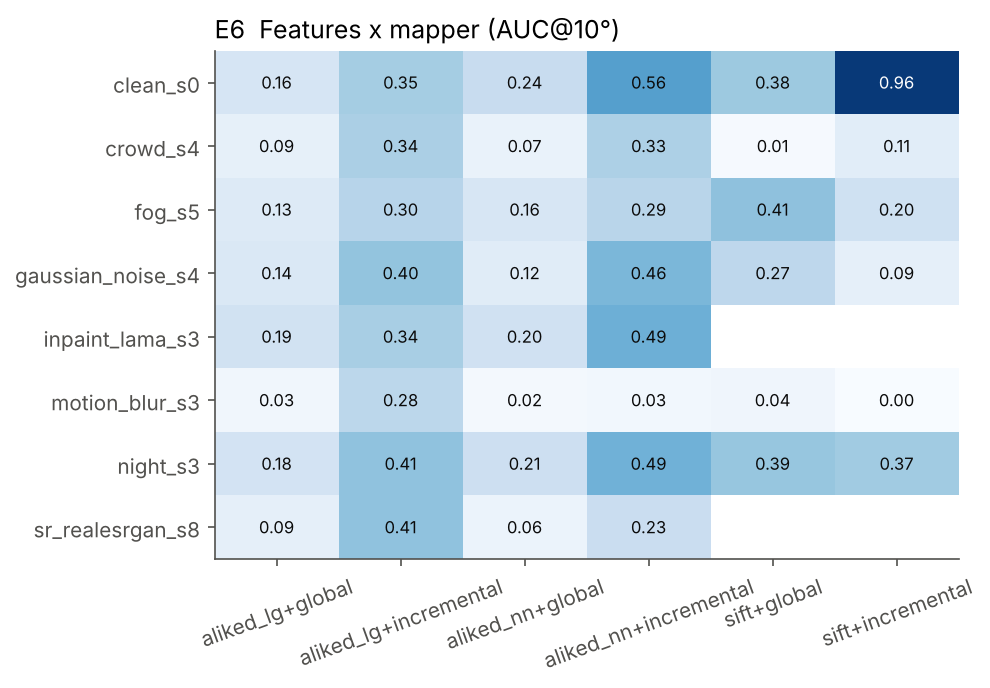
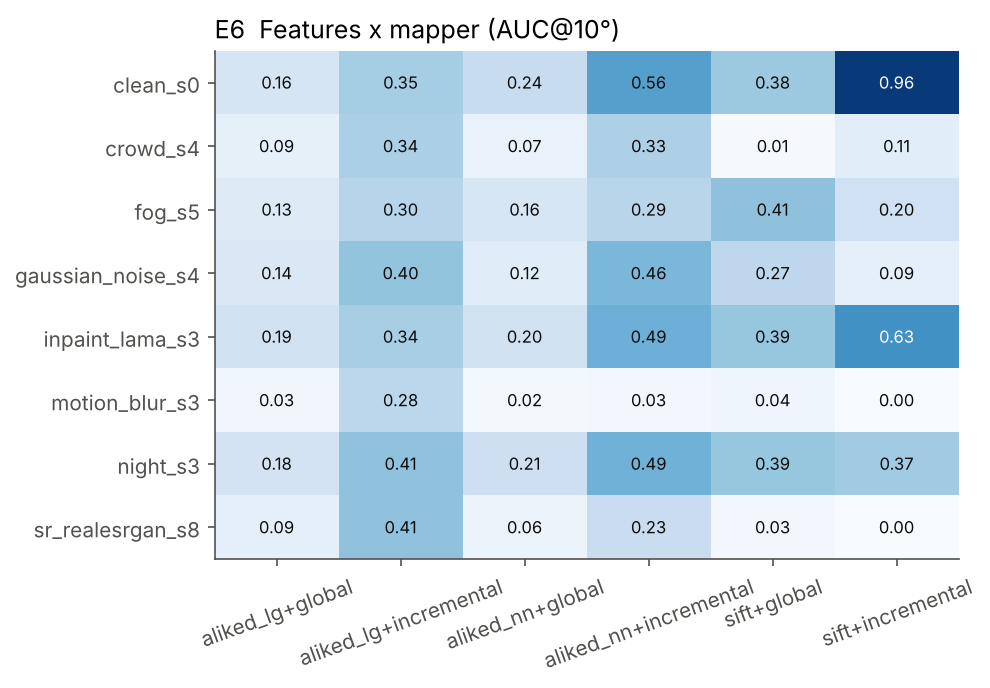
E6: fill SIFT LaMa/ESRGAN cells (3 seeds x 2 scenes)
Claude-Session: https://claude.ai/code/session_01DwFUuxyVwkhujN2CBgQS9g

Changed region(s): [[0.697, 0.4273, 0.9697, 0.5494], [0.8788, 0.7631, 0.9394, 0.7936], [0.7576, 0.7631, 0.7879, 0.7936]]

diff --git a/results/summary.md b/results/summary.md
@@ -169,10 +169,10 @@ Metric: pose AUC@10° over all input image pairs (unregistered = failure) and re
 | crowd_s4          |              0.086 |                   0.335 |              0.067 |                   0.328 |         0.01  |              0.109 |
 | fog_s5            |              0.128 |                   0.296 |              0.162 |                   0.291 |         0.414 |              0.201 |
 | gaussian_noise_s4 |              0.145 |                   0.399 |              0.116 |                   0.459 |         0.273 |              0.089 |
-| inpaint_lama_s3   |              0.189 |                   0.344 |              0.196 |                   0.493 |       nan     |            nan     |
+| inpaint_lama_s3   |              0.189 |                   0.344 |              0.196 |                   0.493 |         0.393 |              0.628 |
 | motion_blur_s3    |              0.035 |                   0.278 |              0.02  |                   0.029 |         0.041 |              0     |
 | night_s3          |              0.181 |                   0.406 |              0.212 |                   0.486 |         0.394 |              0.367 |
-| sr_realesrgan_s8  |              0.086 |                   0.407 |              0.061 |                   0.227 |       nan     |            nan     |
+| sr_realesrgan_s8  |              0.086 |                   0.407 |              0.061 |                   0.227 |         0.025 |              0     |
 
 
 ## E1  Real weather (Boreas)

diff --git a/REPORT.md b/REPORT.md
@@ -171,12 +171,13 @@ which isolates the learned matcher (LightGlue) from the learned features.
 | night s3 | 0.37 | 0.41 | **0.49** | 0.39 | 0.18 | 0.21 |
 | fog s5 | 0.20 | 0.30 | 0.29 | **0.41** | 0.13 | 0.16 |
 | crowds s4 | 0.11 | **0.34** | 0.33 | 0.01 | 0.09 | 0.07 |
-| LaMa inpaint s3 | SIFT_LAMA | 0.34 | **0.49** | SIFT_LAMA_G | 0.19 | 0.20 |
-| Real-ESRGAN SR ×8 | SIFT_SR | **0.41** | 0.23 | SIFT_SR_G | 0.09 | 0.06 |
+| LaMa inpaint s3 | **0.63** | 0.34 | 0.49 | 0.39 | 0.19 | 0.20 |
+| Real-ESRGAN SR ×8 | 0.00 | **0.41** | 0.23 | 0.03 | 0.09 | 0.06 |
 
 * **Learned features trade clean accuracy for robustness.** On clean photos SIFT is far better (0.96 vs 0.35 to 0.56).
   Under noise, crowds, blur and generative SR, ALIKED is 3 to 4× better, and LightGlue is the only pipeline that
-  survives motion blur.
+  survives motion blur. The gap is largest for GAN super-resolution (0.41 vs 0.00 for SIFT). The exception is LaMa
+  inpainting, which keeps real texture outside the holes: there SIFT stays best (0.63).
 * **Why ALIKED is poor on clean photos: symmetry, not noise.** Every image registers and the reprojection error is low
   (0.6 to 0.7 px), but the reconstruction is wrong in a structured way. On South Building every image has a median
   relative-rotation error of 89° or 91°. This is consistent with views of one facade being registered onto a
